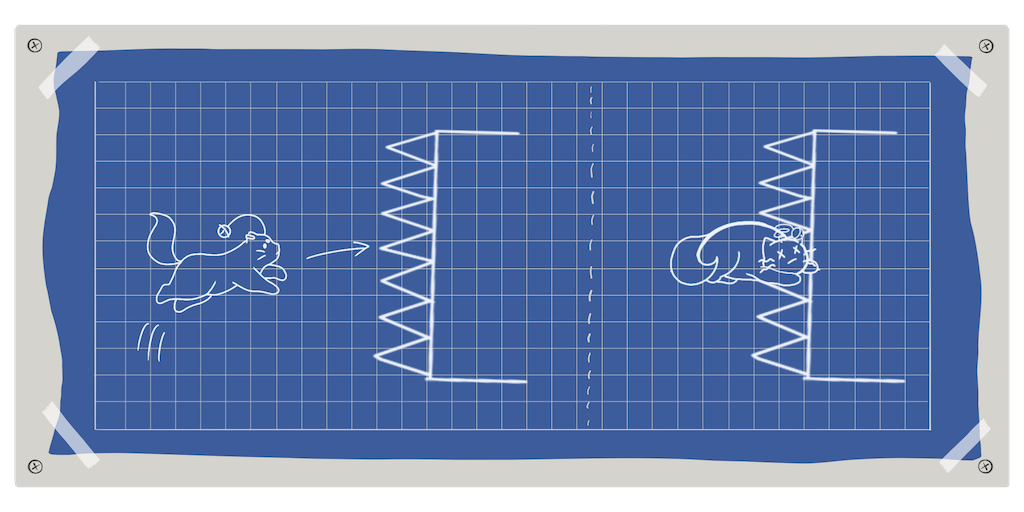
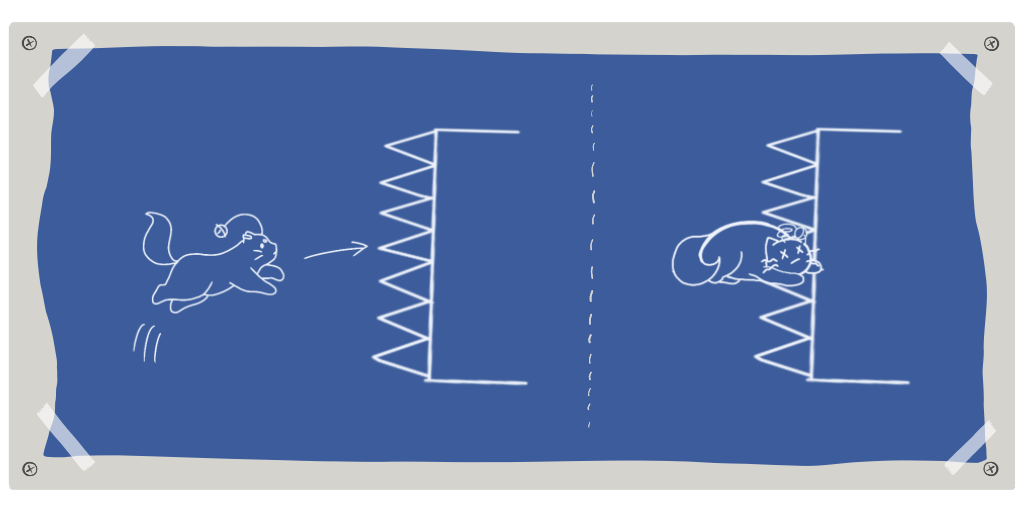
resize assets

Changed region(s): [[0.0, 0.0312, 1.0, 0.9688], [0.2812, 0.0938, 0.3125, 0.125]]

diff --git a/core/src/edu/cornell/gdiac/game/GameController.java b/core/src/edu/cornell/gdiac/game/GameController.java
@@ -492,7 +492,7 @@ public class GameController implements Screen {
                 "tutorial-side-spikes", "tutorial-spikes", "tutorial-switch", "tutorial-walk-jump",
                 "tutorial-jump-dash", "tutorial-undo", "tutorial-climb", "tutorial-cancel-switch",
                 "cabinet-left", "cabinet-mid", "cabinet-right", "goggles", "microscope",
-                "cat-vinci", "cat-tank-pink", "cat-tank-green","shelf", "wall-bottom", "wall-top",
+                "cat-vinci", "cat-tank-pink", "cat-tank-green","shelf",
                 "tank", "test-tubes", "coke", "broken-robot", "coming-soon", "arrow-sign",
                 "tutorial-cancel-switch", "wood-arrow", "wood-sign",
                 "cat-tank","cat-tank-purple","chair","dandelions","desktop","firefly","flowers",
